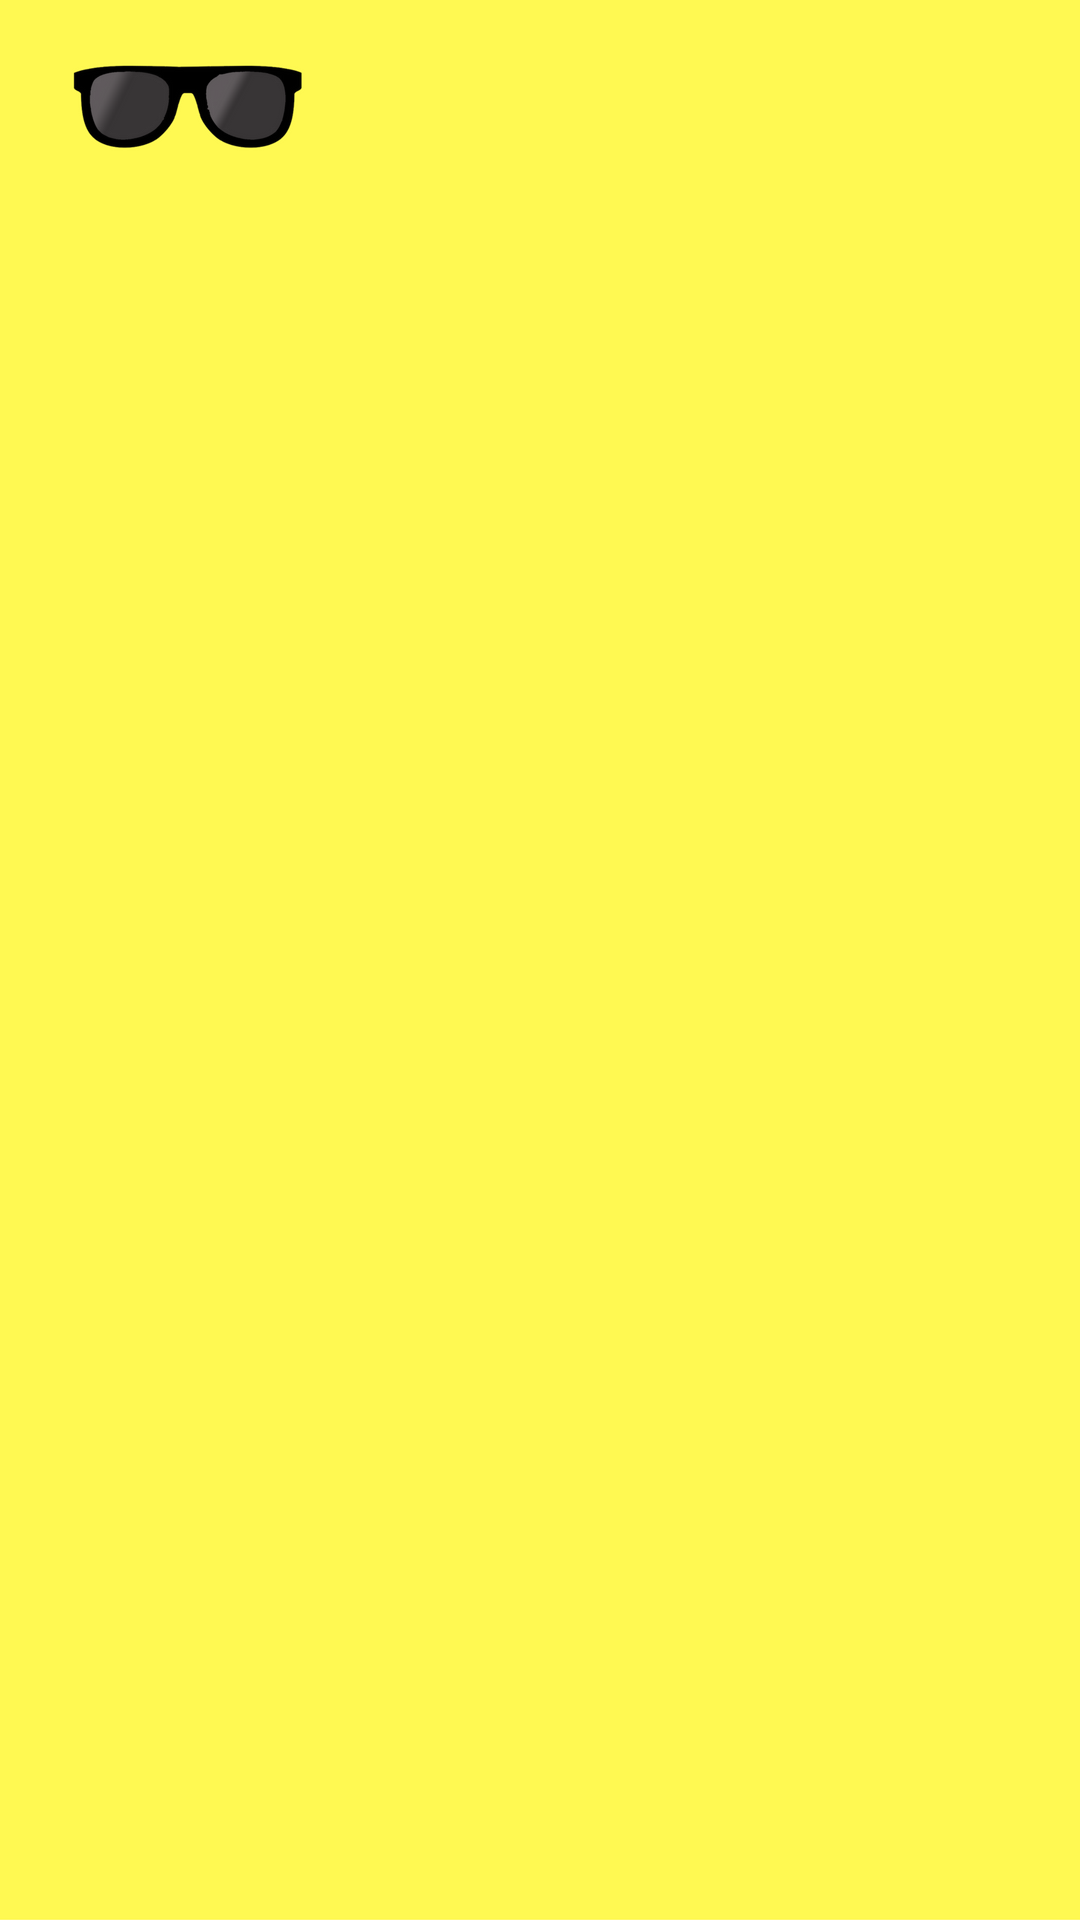
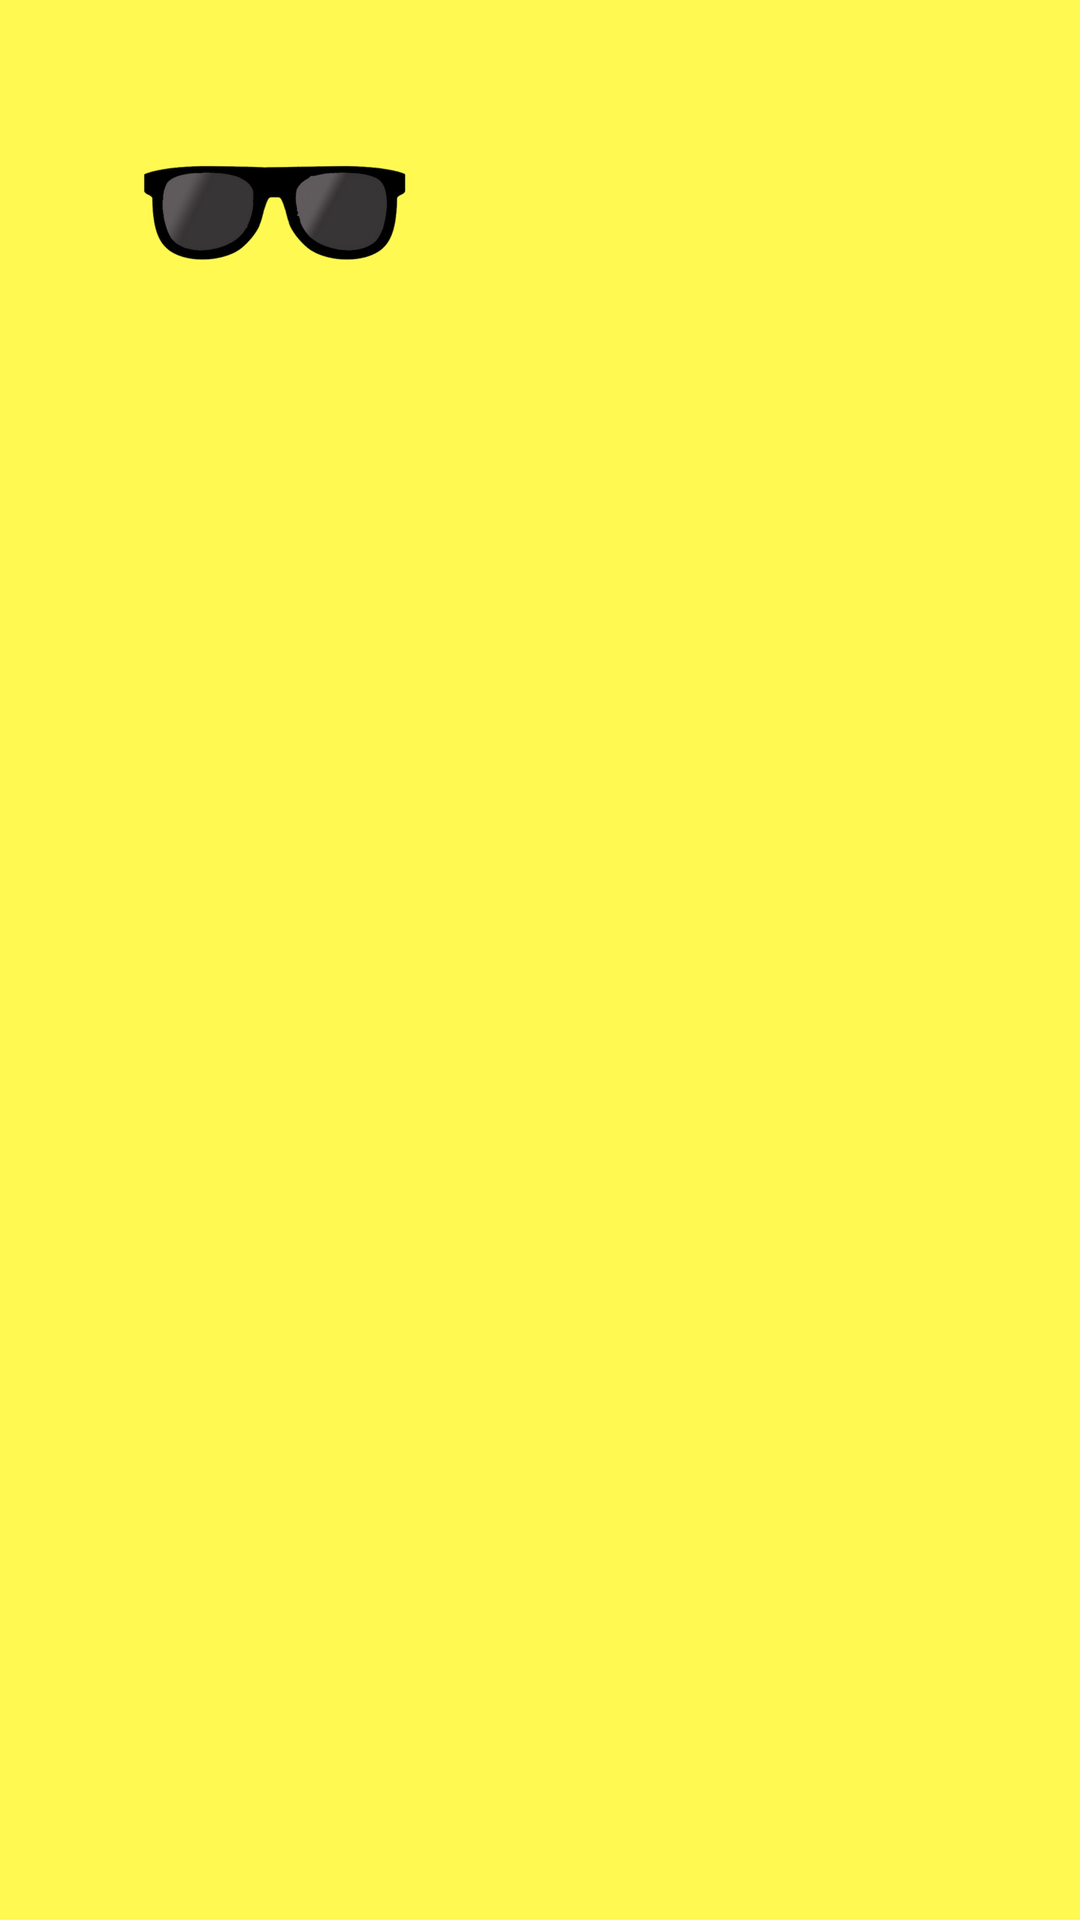
fixes css

Changed region(s): [[0.0611, 0.0312, 0.3667, 0.1562]]

diff --git a/Second.js b/Second.js
@@ -58,7 +58,7 @@ class Second extends Component {
         return (
 
             <Image source={require('./SearchPage.png')} style= {styles.backgroundImage}>
-               <View style = {{marginTop:50}}>
+               <View style = {{marginTop:100}}>
                    <TextInput style={styles.searchBar} placeholder= "   eg: Houston, San Jose"
                     value={this.props.location}/>
                    <View style={{flexDirection: 'row'}}>
@@ -70,12 +70,15 @@ class Second extends Component {
                    </View>
 
 
-                   <ListView dataSource={this.state.dataSource} renderRow={this.renderRow.bind(this)} enableEmptySections={true}/>
+                   <ListView dataSource={this.state.dataSource} renderRow={this._myRenderRow} enableEmptySections={true}/>
 
 
                </View>
              </Image>
         );
+    }
+    _myRenderRow() {
+
     }
 
 };
